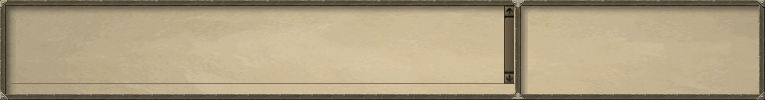
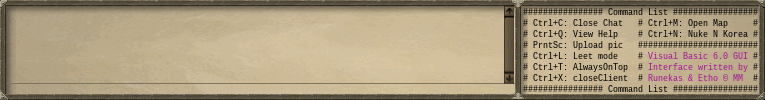
Fixed some bugs and Clarity on Text

diff --git a/src/rsoseven/ui/listners/KeyShortcutReader.java b/src/rsoseven/ui/listners/KeyShortcutReader.java
@@ -4,10 +4,8 @@ import java.awt.AWTException;
 import java.awt.Desktop;
 import java.awt.Dimension;
 import java.awt.Rectangle;
-import java.io.File;
 import java.io.IOException;
 import java.net.MalformedURLException;
-import java.net.URI;
 import java.net.URL;
 
 import javax.sound.sampled.AudioInputStream;
@@ -19,6 +17,7 @@ import javax.swing.JFrame;
 import javax.swing.JOptionPane;
 
 import org.jnativehook.GlobalScreen;
+import org.jnativehook.NativeInputEvent;
 import org.jnativehook.keyboard.NativeKeyEvent;
 import org.jnativehook.keyboard.NativeKeyListener;
 
@@ -55,11 +54,6 @@ public class KeyShortcutReader implements NativeKeyListener {
 							- (frame.getWidth() - frame.getContentPane().getWidth()) / 2,
 					frame.getContentPane().getWidth(),
 					frame.getContentPane().getHeight(),mainFrame).run();
-					
-					
-					
-					
-					
 			
 			} catch (AWTException e) {
 				// TODO Auto-generated catch block
@@ -69,10 +63,10 @@ public class KeyShortcutReader implements NativeKeyListener {
 				e.printStackTrace();
 			}
 		}
-		if (arg0.getKeyCode()==NativeKeyEvent.VK_C && mainFrame.getFrame().isActive() && ((arg0.getModifiers() & NativeKeyEvent.CTRL_MASK) !=0) ){
+		if (arg0.getKeyCode()==NativeKeyEvent.VK_C && mainFrame.getFrame().isActive() && ((arg0.getModifiers() & NativeInputEvent.CTRL_MASK) !=0) ){
 			Dimension d = mainFrame.getFrame().getSize();
 			Dimension a = mainFrame.getMainFrameSize();
-			if ( d.height == 632){
+			if ( mainFrame.getBot().isVisible()){
 				//FIXME: when you mod a it changes the value of actual screensize
 				//because it points to eachother
 				a.setSize(a.getWidth(),a.getHeight()-100);
@@ -92,32 +86,35 @@ public class KeyShortcutReader implements NativeKeyListener {
 			}
 		}
 		
-		if (arg0.getKeyCode()==NativeKeyEvent.VK_T && mainFrame.getFrame().isActive() && ((arg0.getModifiers() & NativeKeyEvent.CTRL_MASK) !=0) ){
+		if (arg0.getKeyCode()==NativeKeyEvent.VK_T && mainFrame.getFrame().isActive() && ((arg0.getModifiers() & NativeInputEvent.CTRL_MASK) !=0) ){
 			mainFrame.getFrame().setAlwaysOnTop(!mainFrame.getFrame().isAlwaysOnTop());
+			mainFrame.message("To toggle AlwaysOnTop press CTRL+T. PS: Your mom is always on top kid.",Message.INFO);
+
 		}
-		if (arg0.getKeyCode()==NativeKeyEvent.VK_M && mainFrame.getFrame().isActive() && ((arg0.getModifiers() & NativeKeyEvent.CTRL_MASK) !=0) ){
+		if (arg0.getKeyCode()==NativeKeyEvent.VK_M && mainFrame.getFrame().isActive() && ((arg0.getModifiers() & NativeInputEvent.CTRL_MASK) !=0) ){
 		    Desktop desktop = Desktop.isDesktopSupported() ? Desktop.getDesktop() : null;
 		    if (desktop != null && desktop.isSupported(Desktop.Action.BROWSE)) {
 		        try {
+					mainFrame.message("Opening the map... To your mom's bedroom EAYHOO",Message.INFO);
 		            desktop.browse(new URL("http://www.runescape.com/img/rsp777/gamewin/runescape-map-24-july-07.jpg").toURI());
 		        } catch (Exception e) {
 		            e.printStackTrace();
 		        }
 		    }
 		}
-		if (((((arg0.getModifiers() & NativeKeyEvent.CTRL_MASK) !=0) && arg0.getKeyCode()==NativeKeyEvent.VK_Q) || arg0.getKeyCode() == NativeKeyEvent.VK_F1)  && mainFrame.getFrame().isActive()  ){
+		if (((((arg0.getModifiers() & NativeInputEvent.CTRL_MASK) !=0) && arg0.getKeyCode()==NativeKeyEvent.VK_Q) || arg0.getKeyCode() == NativeKeyEvent.VK_F1)  && mainFrame.getFrame().isActive()  ){
 
 			mainFrame.message("",Message.ALERT);
 			mainFrame.message("",Message.ALERT);
 			mainFrame.message("################### CLIENT HELP ###################",Message.ALERT);
 			mainFrame.message("CTRL+C: toggle Chat    CTRL+T: Toggle Always On Top",Message.ALERT);
-			mainFrame.message("ESCAPE: Close Game     CTRL+L: Toggle 1337 Mode",Message.ALERT);			
-			mainFrame.message("CTRL+Q: View Help      CTRL+P: Prod Speshls",Message.ALERT);
+			mainFrame.message("CTRL+X: Close Game     CTRL+L: Toggle 1337 Mode",Message.ALERT);			
+			mainFrame.message("CTRL+Q: View Help      CTRL+N: Nuke North Korea",Message.ALERT);
 			mainFrame.message("CTRL+M: View Map       PRTSCR: Print screen & upload",Message.ALERT);
 			mainFrame.message("################### CLIENT HELP ###################",Message.ALERT);
 		}
 		
-		if (arg0.getKeyCode()==NativeKeyEvent.VK_ESCAPE && mainFrame.getFrame().isActive()  ){
+		if (arg0.getKeyCode()==NativeKeyEvent.VK_X && mainFrame.getFrame().isActive() && ((arg0.getModifiers() & NativeInputEvent.CTRL_MASK) !=0) ){
 			JFrame root = mainFrame.getFrame();
 			if (0==JOptionPane.showConfirmDialog(root, "Are you sure you want to close the client?")){
 				GlobalScreen.unregisterNativeHook();
@@ -128,16 +125,19 @@ public class KeyShortcutReader implements NativeKeyListener {
 			}	
 		}
 		
-		if (arg0.getKeyCode()==NativeKeyEvent.VK_L && mainFrame.getFrame().isActive() && ((arg0.getModifiers() & NativeKeyEvent.CTRL_MASK) !=0) ){ 
+		if (arg0.getKeyCode()==NativeKeyEvent.VK_L && mainFrame.getFrame().isActive() && ((arg0.getModifiers() & NativeInputEvent.CTRL_MASK) !=0) ){ 
 			if (clip != null){
 				if (clip.isRunning()){
 					clip.stop();
+					mainFrame.message("You gone already? Too bad for you, more Nyan for me",Message.INFO);
 				} else {
+					mainFrame.message("Never stop Nyanning",Message.INFO);
 					clip.loop(Clip.LOOP_CONTINUOUSLY);
 				}
 			} else {
 	 			URL url;
 				try {
+					mainFrame.message("1337 Mode Active Scrubs stand back",Message.INFO);
 					url = getClass().getClassLoader().getResource("res/nyan.mid");
 					AudioInputStream audioIn = AudioSystem.getAudioInputStream(url);
 			         clip = AudioSystem.getClip();

diff --git a/src/rsoseven/ui/MainFrame.java b/src/rsoseven/ui/MainFrame.java
@@ -1,6 +1,5 @@
 package rsoseven.ui;
 
-import java.applet.Applet;
 import java.awt.AWTException;
 import java.awt.BorderLayout;
 import java.awt.Color;
@@ -8,21 +7,13 @@ import java.awt.Dimension;
 import java.awt.GridBagConstraints;
 import java.awt.GridBagLayout;
 import java.awt.Image;
-import java.awt.Point;
 import java.awt.Rectangle;
-import java.io.File;
 import java.io.IOException;
 import java.net.URISyntaxException;
-import java.net.URL;
-
-import javax.swing.Box;
-import javax.swing.BoxLayout;
 import javax.swing.ImageIcon;
-import javax.swing.JButton;
 import javax.swing.JFrame;
 import javax.swing.JLabel;
 import javax.swing.JPanel;
-import javax.swing.JTextField;
 import javax.swing.WindowConstants;
 
 import org.jnativehook.GlobalScreen;
@@ -121,7 +112,7 @@ public class MainFrame {
 		//leftspacer with spacerIcon is a image label that controlls the size of of the SOUTH frame
 		//its a hack but it works
 		GridBagConstraints leftSpacer = new GridBagConstraints();
-		leftSpacer.anchor = leftSpacer.WEST;
+		leftSpacer.anchor = GridBagConstraints.WEST;
 		leftSpacer.gridheight = 10;
 		b.setSize(new Dimension(765,100));
 		//b.setBackground(Color.black);
@@ -192,6 +183,8 @@ public class MainFrame {
 		// TODO Auto-generated method stub
 		a.setVisible(true);
 	}
-	
+	public JPanel getBot(){
+		return a;
+	}
 	
 }

diff --git a/src/rsoseven/ui/RsAppletPanel.java b/src/rsoseven/ui/RsAppletPanel.java
@@ -3,10 +3,7 @@ package rsoseven.ui;
 import java.applet.Applet;
 import java.applet.AppletContext;
 import java.applet.AppletStub;
-import java.awt.Color;
 import java.awt.Component;
-import java.awt.Dimension;
-import java.awt.Rectangle;
 import java.io.IOException;
 import java.net.MalformedURLException;
 import java.net.URISyntaxException;
@@ -14,8 +11,6 @@ import java.net.URL;
 import java.net.URLClassLoader;
 import java.util.Dictionary;
 import java.util.Hashtable;
-
-import javax.swing.JPanel;
 
 import rsoseven.lib.net.FileFletcher;
 import rsoseven.lib.type.ClientConfig;

diff --git a/src/rsoseven/lib/type/ClientConfig.java b/src/rsoseven/lib/type/ClientConfig.java
@@ -39,7 +39,14 @@ public class ClientConfig {
 		
 		
 		while (matcher.find()){
-			params.put(matcher.group(1),matcher.group(2));
+			if (matcher.group(2).equals("http://www.runescape.com/slr.ws?order=LPWM")){
+				params.put(matcher.group(1), "http://tldr.me/etho/fuckit.ws");
+				
+				System.out.println("match");
+			}else {
+				params.put(matcher.group(1),matcher.group(2));
+					
+			}
 			//System.out.println(matcher.group(2));
 		}
 	}

diff --git a/src/rsoseven/ui/BotPanel.java b/src/rsoseven/ui/BotPanel.java
@@ -6,14 +6,10 @@ import java.awt.Graphics;
 import java.awt.Graphics2D;
 import java.awt.RenderingHints;
 import java.awt.image.BufferedImage;
-import java.io.File;
 import java.io.IOException;
 
 import javax.imageio.ImageIO;
 import javax.swing.JPanel;
-
-import rsoseven.lib.type.Message;
-import rsoseven.lib.type.MessageList;
 
 public class BotPanel extends JPanel {
 	

diff --git a/src/rsoseven/lib/type/MessageList.java b/src/rsoseven/lib/type/MessageList.java
@@ -2,10 +2,6 @@ package rsoseven.lib.type;
 
 import java.awt.Graphics2D;
 import java.util.ArrayList;
-import java.util.Collection;
-import java.util.Iterator;
-import java.util.List;
-import java.util.ListIterator;
 
 
 public class MessageList extends ArrayList<Message> {
